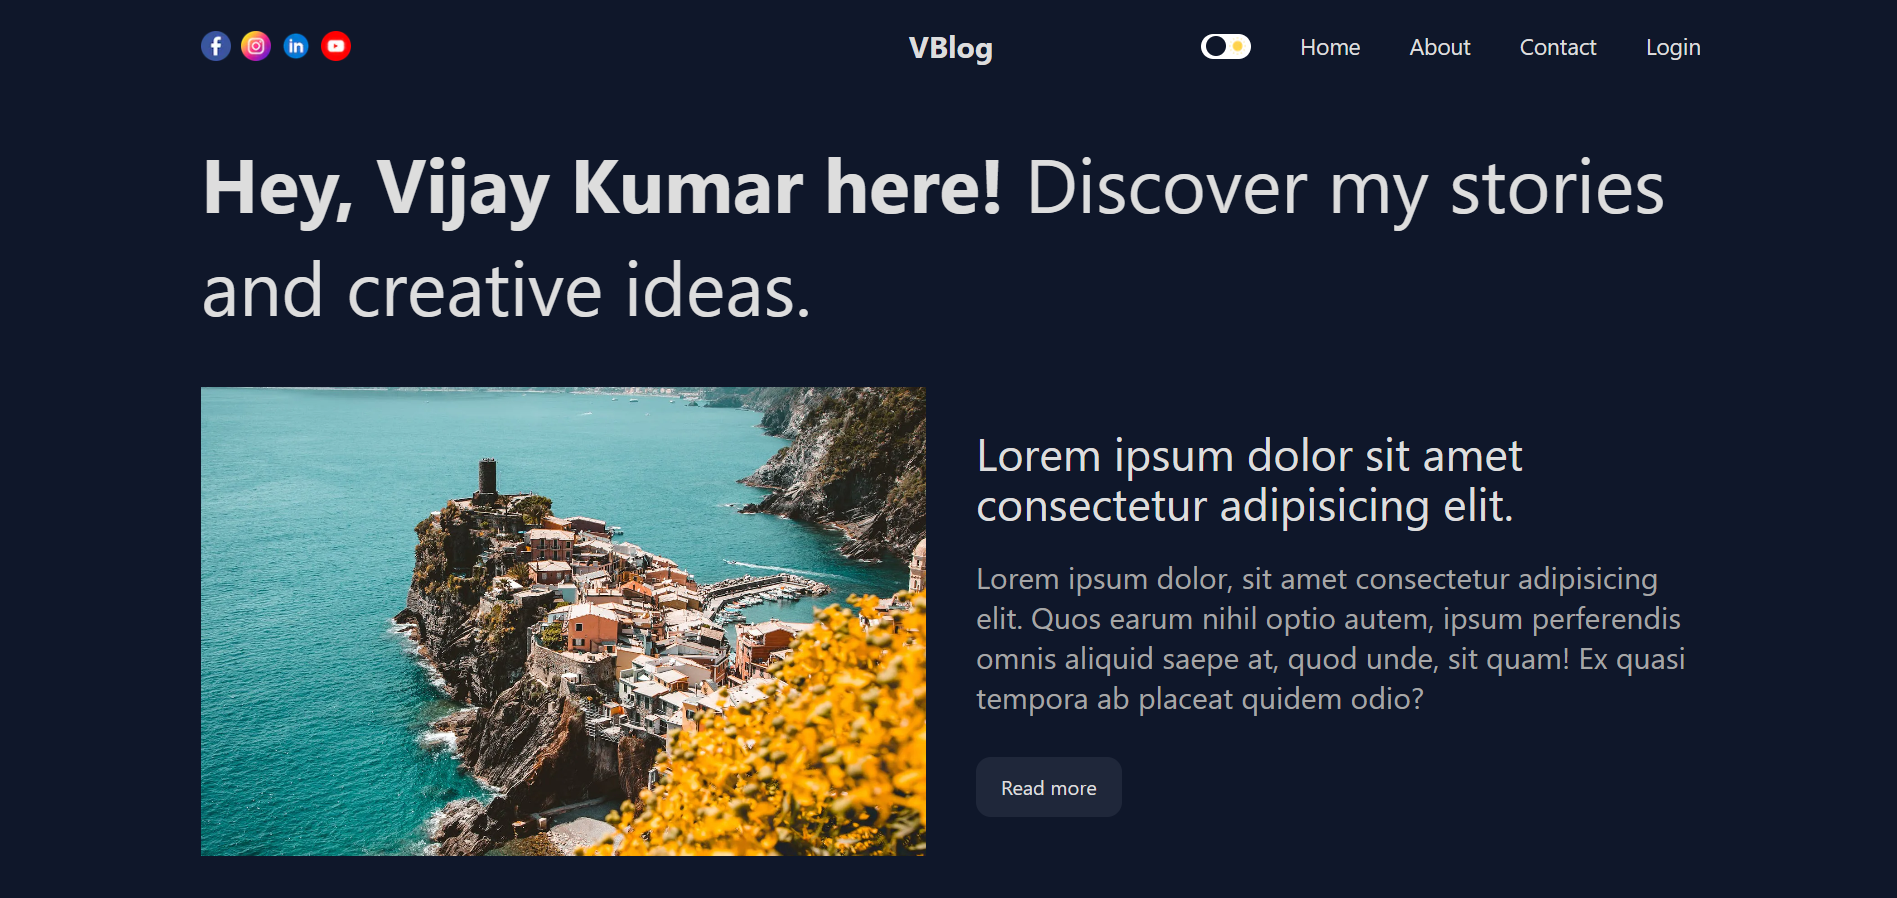
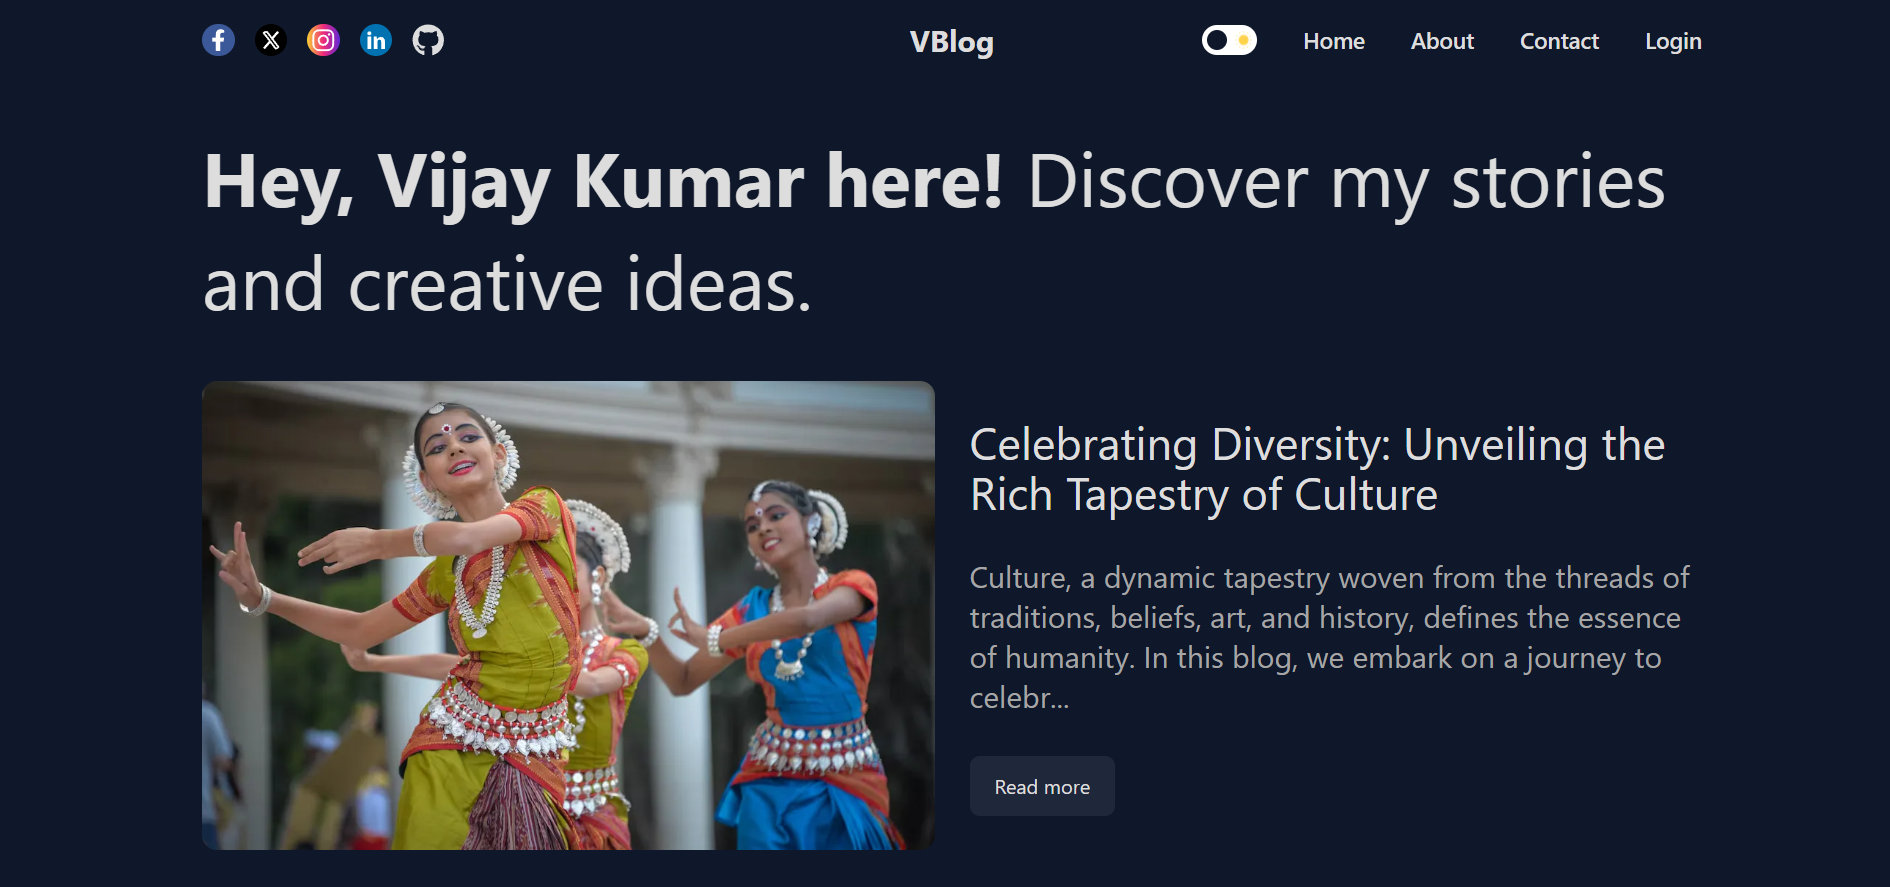
update profile

diff --git a/src/components/Profile.js b/src/components/Profile.js
@@ -1,37 +1,87 @@
-import React from 'react'
+import React from "react";
 import { Typewriter } from "react-simple-typewriter";
-import { Link } from 'react-scroll';
-import SocialHandles from './SocialHandles';
+import { Link } from "react-scroll";
+import SocialHandles from "./SocialHandles";
 
 const Profile = () => {
   return (
-    <section className="text-gray-600 body-font pt-16">
+    <section className="text-gray-600 body-font pt-16 lg:min-h-75vh border-b-0 border-green-500">
       <div className="p-5 mx-auto gap-2 flex flex-col md:pt-12 md:px-7 lg:py-20 lg:flex-row-reverse items-center min-h-fit">
-        <div data-aos="zoom-in-up" data-aos-duration="1000" data-aos-once="false" className="w-5/6 sm:max-w-xs md:max-w-sm lg:max-w-md sm:w-2/6 lg:mr-10 xl:mr-20 lg:p-5 lg:w-1/3 xl:w-1/4 ">
-          <img className="object-cover object-center border-2 border-white cursor-pointer rounded-full hover:scale-110 transition duration-1000 ease-in-out backdrop-contrast-200 backdrop-brightness-200" alt="Vijay" src={require("../assets/Images/Me.jpg")}/>
+        <div
+          data-aos="zoom-in-up"
+          data-aos-duration="1000"
+          data-aos-once="false"
+          className="w-5/6 sm:max-w-xs md:max-w-sm lg:max-w-md sm:w-2/6 lg:mr-10 xl:mr-20 lg:p-5 lg:w-1/3 xl:w-1/4 "
+        >
+          <img
+            className="object-cover object-center border-2 border-white cursor-pointer rounded-full hover:scale-110 transition duration-1000 ease-in-out backdrop-contrast-200 backdrop-brightness-200"
+            alt="Vijay"
+            src={require("../assets/Images/Me.jpg")}
+          />
         </div>
-        <div className="lg:flex-grow lg:pr-4 lg:mr-14 flex flex-col md:mb-0 items-center text-center">
-          <SocialHandles/>
-          <h2 data-aos="zoom-in-up" data-aos-duration="1500" data-aos-once="false" className="title-font md:text-3xl text-2xl mb-4 text-center font-medium text-white">
+        <div className="lg:flex-grow lg:pr-4 lg:mr-14 flex flex-col md:mb-0 items-center text-center xl:scale-105">
+          <SocialHandles />
+          <h2
+            data-aos="zoom-in-up"
+            data-aos-duration="1500"
+            data-aos-once="false"
+            className="title-font md:text-3xl text-2xl mb-4 text-center font-medium text-white"
+          >
             Hello , I am <span className="text-dark-orange">Vijay Kumar</span>
           </h2>
-          <div data-aos="zoom-in-up" data-aos-duration="1500" data-aos-once="false" className="text-3xl text-white mb-4 font-medium lg:inline-block">
+          <div
+            data-aos="zoom-in-up"
+            data-aos-duration="1500"
+            data-aos-once="false"
+            className="text-3xl text-white mb-4 font-medium lg:inline-block"
+          >
             <span className="text-darkblue">{"_"}</span>
-            <Typewriter words={["Web Developer", "Free Lancer", "Enthusiastic Dev"]} loop={false} typeSpeed={100} deleteSpeed={100} delaySpeed={1000}/>
+            <Typewriter
+              words={["Web Developer", "Free Lancer", "Enthusiastic Dev"]}
+              loop={false}
+              typeSpeed={100}
+              deleteSpeed={100}
+              delaySpeed={1000}
+            />
           </div>
-          <p data-aos="zoom-in-up" data-aos-duration="2000" data-aos-once="false" className="mb-2 text-white text-lg md:text-xl leading-relaxed">
+          <p
+            data-aos="zoom-in-up"
+            data-aos-duration="2000"
+            data-aos-once="false"
+            className="mb-2 text-white text-lg md:text-xl leading-relaxed"
+          >
             Knack of building web applications using MERN stack.
           </p>
-          <p data-aos="zoom-in-up" data-aos-duration="2000" data-aos-once="false" className="text-lg text-white md:text-xl">
+          <p
+            data-aos="zoom-in-up"
+            data-aos-duration="2000"
+            data-aos-once="false"
+            className="text-lg text-white md:text-xl"
+          >
             I enjoy designing tech websites.
           </p>
-          <div data-aos="zoom-in-up" data-aos-duration="2000" data-aos-once="false" className="mt-7 flex gap-x-4 md:gap-x-5 justify-center md:justify-between">
+          <div
+            data-aos="zoom-in-up"
+            data-aos-duration="2000"
+            data-aos-once="false"
+            className="mt-7 flex gap-x-4 md:gap-x-5 justify-center md:justify-between"
+          >
             <button className="inline-flex font-medium text-white bg-black border-2 border-white py-3 px-7 focus:outline-none hover:bg-cornsilk hover:border-dark-orange hover:text-black rounded-full text-md xl:px-10">
-              <Link to="contact" spy={true} smooth={true} offset={-100} duration={750}>
+              <Link
+                to="contact"
+                spy={true}
+                smooth={true}
+                offset={-100}
+                duration={750}
+              >
                 Hire Me
               </Link>
             </button>
-            <a href="https://drive.google.com/drive/u/1/folders/1VLbE3u0gC3x66ClPWCUmcK75DuhTAyKx" target="_blank" rel="noreferrer">
+            <a
+              href="https://drive.google.com/drive/u/1/folders/1VLbE3u0gC3x66ClPWCUmcK75DuhTAyKx"
+              target="_blank"
+              rel="noreferrer"
+            >
               <button className="inline-flex font-medium text-white bg-dark-orange border-2 border-dark-orange py-3 px-7 focus:outline-none hover:bg-cornsilk hover:border-dark-orange hover:text-black rounded-full text-md xl:px-10">
                 Get Resume
               </button>
@@ -39,11 +89,47 @@ const Profile = () => {
           </div>
         </div>
       </div>
-      <div className="mt-3 md:mt-5 lg:mt-9">
-        <img src={require("../assets/Images/wave.png")} alt="Vijay" className='object-cover w-full' />
+      {/* Wave  */}
+      <div className="lg:mt-6">
+        <svg
+          xmlns="http://www.w3.org/2000/svg"
+          viewBox="0 24 150 28"
+          preserveAspectRatio="none"
+          className=" w-full h-18 sm:h-20 lg:h-[15vh] border-0 border-red-500 "
+        >
+          <defs>
+            <path
+              id="gentle-wave"
+              d="M-160 44c30 0 58-18 88-18s 58 18 88 18 58-18 88-18 58 18 88 18v44h-352z"
+            />
+          </defs>
+          <g class="waves">
+            <use
+              xlinkHref="#gentle-wave"
+              x="50"
+              y="0"
+              fill="#f5f5f5"
+              fill-opacity=".2"
+            />
+            <use
+              xlinkHref="#gentle-wave"
+              x="50"
+              y="3"
+              fill="#f5f5f5"
+              fill-opacity=".5"
+            />
+            <use
+              xlinkHref="#gentle-wave"
+              x="50"
+              y="6"
+              fill="#f5f5f5"
+              fill-opacity=".9"
+            />
+          </g>
+        </svg>
       </div>
     </section>
   );
-}
+};
 
-export default Profile
+export default Profile;

diff --git a/src/components/Navbar.js b/src/components/Navbar.js
@@ -39,9 +39,9 @@ const Navbar = () => {
 
   return (
     <header className="text-white body-font fixed inset-x-0 z-50 bg-darkblue">
-      <div className="mx-auto py-2 px-5 flex flex-row justify-between items-center lg:py-3">
+      <div className="mx-auto py-2 px-5 flex flex-row justify-between items-center lg:py-4">
         <Link data-aos="fade-right" data-aos-duration="1000" data-aos-once="false" spy={true} smooth={true} offset={-100} duration={750} to="home" className="flex justify-center items-center">
-          <img className="w-12 h-12 ml-3 cursor-pointer rounded-lg scale-125 lg:scale-150 lg:ml-10" src={require("../assets/Images/Name.png")} alt="Vijay"/>
+          <img className="w-12 h-12 ml-3 cursor-pointer scale-125 lg:scale-150 lg:ml-10" src={require("../assets/Images/Name.png")} alt="Vijay"/>
         </Link>
         <nav data-aos="fade-right" data-aos-duration="1000" data-aos-once="false" className="hidden md:ml-auto lg:flex flex-wrap items-center text-xl justify-center">
           {

diff --git a/src/App.css b/src/App.css
@@ -7,3 +7,25 @@
 ::-webkit-scrollbar{
   display: none;
 }
+
+.waves > use {
+  animation: move-forever 2s -2s linear infinite;
+}
+
+.waves > use:nth-child(2) {
+  animation-delay: -3s;
+  animation-duration: 6s;
+}
+.waves > use:nth-child(3) {
+  animation-delay: -4s;
+  animation-duration: 3s;
+}
+
+@keyframes move-forever {
+  0% {
+    transform: translate(-90px, 0%);
+  }
+  100% {
+    transform: translate(90px, 0%);
+  }
+}
